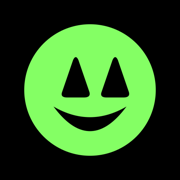
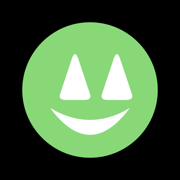
add

diff --git a/browser/index.html b/browser/index.html
@@ -57,8 +57,8 @@
   }
   @media (prefers-reduced-motion: reduce) { .head .logo { animation:none; } }
   .head .mark { width:19px; height:19px; flex:0 0 auto; display:block; }
-  .head .mark .ring { fill:var(--green-bright); }   /* base = key colour */
-  .head .mark .face { fill:var(--bg); }             /* cut-outs = page bg */
+  .head .mark .ring { fill:#88d878; }   /* BMBoard smiley, recoloured (matches bmbrowserlogo) */
+  .head .mark .face { fill:#ffffff; }
   .head .th-btn, .head .wg-btn, .head .edit-btn {
     font-size:10px; letter-spacing:0.06em; color:var(--green-faint);
     cursor:pointer; border:1px solid var(--line); border-radius:2px; padding:2px 9px;
@@ -153,15 +153,15 @@
   .bk:hover .x.solo { display:inline; }
   .bm-empty { font-size:11px; color:var(--green-faint); letter-spacing:0.06em; padding:4px 2px; }
 
-  .bm.ascii { gap:16px; }
+  .bm.ascii { gap:20px; }
   @keyframes aa-in { from { opacity:0; transform:translateY(5px); } to { opacity:1; transform:none; } }
   .aa-card {
-    position:relative; display:flex; flex-direction:column; align-items:center; gap:7px;
-    padding:9px 12px; border:1px solid transparent; border-radius:3px;
+    position:relative; display:flex; flex-direction:column; align-items:center; gap:10px;
+    padding:13px 17px; border:1px solid transparent; border-radius:3px;
     cursor:pointer; text-decoration:none; animation:aa-in .42s ease both;
   }
   .aa-card:hover { border-color:var(--line); background:var(--bg-1); }
-  .aa { margin:0; font-family:var(--font-mono); font-size:10px; line-height:1; letter-spacing:0; color:var(--green-bright); white-space:pre; }
+  .aa { margin:0; font-family:var(--font-mono); font-size:15px; line-height:1; letter-spacing:0; color:var(--green-bright); white-space:pre; }
   .aa-card:hover .aa { text-shadow:0 0 6px rgba(51,255,51,0.4); }
   .aa-name { font-size:10px; color:var(--gray); letter-spacing:0.1em; }
   .aa-ctls { display:flex; gap:4px; }
@@ -219,14 +219,21 @@
   .nl-item .nl-pt { flex-shrink:0; color:var(--green-faint); font-size:11px; }
   .news-msg { background:var(--bg-1); border:1px solid var(--line); border-radius:3px; padding:10px 14px; color:var(--green-faint); font-size:11px; letter-spacing:0.06em; }
 
-  /* ── widget: clock (click to cycle: small → large → ascii) ── */
+  /* ── widget: clock (click to cycle: small → large → ascii — ascii = the big one) ── */
   .clock-w { cursor:pointer; }
   .clock-w.s-small { font-size:12px; color:var(--green-dim); letter-spacing:0.16em; }
   .clock-w.s-large { color:var(--green-bright); }
-  .clock-w.s-large .ct { display:block; font-size:34px; letter-spacing:0.06em; line-height:1.05; }
-  .clock-w.s-large .cd { display:block; font-size:11px; color:var(--green-faint); letter-spacing:0.18em; margin-top:3px; }
-  .clock-w.s-ascii .ca { display:block; font-family:var(--font-mono); white-space:pre; font-size:10px; line-height:1; color:var(--green-bright); }
-  .clock-w.s-ascii .cd { display:block; font-size:10px; color:var(--green-faint); letter-spacing:0.18em; margin-top:7px; }
+  .clock-w.s-large .ct { display:block; font-size:38px; letter-spacing:0.06em; line-height:1.05; }
+  .clock-w.s-large .cd { display:block; font-size:11px; color:var(--green-faint); letter-spacing:0.18em; margin-top:4px; }
+  .clock-w.s-ascii .ca { display:block; font-family:var(--font-mono); white-space:pre; font-size:16px; line-height:1; color:var(--green-bright); }
+  .clock-w.s-ascii .cd { display:block; font-size:11px; color:var(--green-faint); letter-spacing:0.2em; margin-top:10px; }
+
+  /* shared size toggle (小 · 中 · 大) used by weather + markets headers */
+  .wx-hd .sz-tg, .mk-hd .sz-tg { font-size:10px; letter-spacing:0; text-transform:none; }
+  .wx-hd [data-sz], .mk-hd [data-sz] { cursor:pointer; color:var(--green-faint); }
+  .wx-hd [data-sz]:hover, .mk-hd [data-sz]:hover { color:var(--green); }
+  .wx-hd [data-sz].active, .mk-hd [data-sz].active { color:var(--green-bright); }
+  .wx-hd .sz-tg .sep, .mk-hd .sz-tg .sep { color:var(--line); padding:0 4px; cursor:default; }
 
   /* ── widget: weather ── */
   .wx-hd { display:flex; align-items:center; gap:12px; margin:0 2px 7px; font-size:10px; letter-spacing:0.14em; text-transform:uppercase; color:var(--gray); }
@@ -241,6 +248,19 @@
   .wx-tx .wx-hl  { color:var(--green-dim); font-size:12px; }
   .wx-tx .wx-loc { color:var(--gray); font-size:11px; }
   .wx-msg { background:var(--bg-1); border:1px solid var(--line); border-radius:3px; padding:10px 16px; color:var(--green-faint); font-size:11px; letter-spacing:0.06em; }
+  /* weather sizes — sz-m = default */
+  .wx-body.sz-s { padding:8px 14px; }
+  .wx-body.sz-s .wx-row { gap:12px; }
+  .wx-body.sz-s .wx-art { font-size:8px; }
+  .wx-body.sz-s .wx-tx { font-size:11px; line-height:1.5; }
+  .wx-body.sz-s .wx-tx .wx-now { font-size:16px; }
+  .wx-body.sz-l { padding:20px 22px; }
+  .wx-body.sz-l .wx-row { gap:28px; }
+  .wx-body.sz-l .wx-art { font-size:20px; line-height:1.05; }
+  .wx-body.sz-l .wx-tx { font-size:15px; line-height:1.85; }
+  .wx-body.sz-l .wx-tx .wx-now { font-size:46px; }
+  .wx-body.sz-l .wx-tx .wx-lbl { font-size:18px; }
+  .wx-body.sz-l .wx-tx .wx-hl { font-size:14px; }
 
   /* ── widget: markets (crypto ticker + ASCII sparkline) ── */
   .mk-hd { display:flex; align-items:center; gap:12px; margin:0 2px 7px; font-size:10px; letter-spacing:0.14em; text-transform:uppercase; color:var(--gray); }
@@ -255,6 +275,11 @@
   .mk-row .mk-ch.down { color:var(--red); }
   .mk-row .mk-spark { flex:1; min-width:0; overflow:hidden; font-family:var(--font-mono); font-size:13px; letter-spacing:0; white-space:nowrap; color:var(--green-dim); }
   .mk-msg { background:var(--bg-1); border:1px solid var(--line); border-radius:3px; padding:10px 14px; color:var(--green-faint); font-size:11px; letter-spacing:0.06em; }
+  /* markets sizes — sz-m = default */
+  .mk-body.sz-s .mk-row { padding:5px 12px; font-size:11px; gap:10px; }
+  .mk-body.sz-s .mk-row .mk-sym { width:36px; } .mk-body.sz-s .mk-row .mk-px { width:96px; } .mk-body.sz-s .mk-row .mk-ch { width:54px; font-size:11px; } .mk-body.sz-s .mk-row .mk-spark { font-size:11px; }
+  .mk-body.sz-l .mk-row { padding:12px 18px; font-size:17px; gap:14px; }
+  .mk-body.sz-l .mk-row .mk-sym { width:52px; } .mk-body.sz-l .mk-row .mk-px { width:150px; font-size:17px; } .mk-body.sz-l .mk-row .mk-ch { width:80px; font-size:14px; } .mk-body.sz-l .mk-row .mk-spark { font-size:18px; }
 
   /* ── help overlay + footer (outside the stack) ── */
   .help { display:none; margin-top:18px; background:var(--bg-1); border:1px solid var(--line); border-radius:3px; padding:14px 16px; font-size:11px; line-height:1.95; }
@@ -364,7 +389,11 @@
       <div class="widget" data-wid="weather">
         <div class="w-bar"><span class="w-handle" title="drag to reorder">⠿</span><span class="w-title">weather</span><button class="w-hide" title="hide widget">✕</button></div>
         <div class="w-body">
-          <div class="wx-hd"><span>weather · 滋賀</span><span class="wx-r" id="wx-refresh" title="refresh">↻</span></div>
+          <div class="wx-hd">
+            <span>weather · 滋賀</span>
+            <span class="sz-tg" id="wx-size"><span data-sz="s">小</span><span class="sep">·</span><span data-sz="m">中</span><span class="sep">·</span><span data-sz="l">大</span></span>
+            <span class="wx-r" id="wx-refresh" title="refresh">↻</span>
+          </div>
           <div id="wx-body"></div>
         </div>
       </div>
@@ -372,7 +401,11 @@
       <div class="widget" data-wid="markets">
         <div class="w-bar"><span class="w-handle" title="drag to reorder">⠿</span><span class="w-title">markets</span><button class="w-hide" title="hide widget">✕</button></div>
         <div class="w-body">
-          <div class="mk-hd"><span>markets · crypto (JPY)</span><span class="mk-r" id="mk-refresh" title="refresh">↻</span></div>
+          <div class="mk-hd">
+            <span>markets · crypto (JPY)</span>
+            <span class="sz-tg" id="mk-size"><span data-sz="s">小</span><span class="sep">·</span><span data-sz="m">中</span><span class="sep">·</span><span data-sz="l">大</span></span>
+            <span class="mk-r" id="mk-refresh" title="refresh">↻</span>
+          </div>
           <div id="mk-body"></div>
         </div>
       </div>
@@ -403,7 +436,7 @@
     </div>
 
     <div class="foot">
-      <a href="https://99letters.github.io/">99letters / kinoshita studio</a>
+      <a href="https://tkinoshita99.github.io/">99letters / kinoshita studio</a>
     </div>
   </div>
 

diff --git a/browser/newtab.js b/browser/newtab.js
@@ -446,12 +446,17 @@ function wxCat(code) {
   if ((code >= 51 && code <= 67) || (code >= 80 && code <= 86)) return 'rain';
   return 'cloudy';
 }
+const WX_SIZE_KEY = 'bm-browser.weatherSize.v1';
+let weatherSize = ['s', 'm', 'l'].includes(localStorage.getItem(WX_SIZE_KEY)) ? localStorage.getItem(WX_SIZE_KEY) : 'm';
+function setWeatherSize(s) { if (!['s', 'm', 'l'].includes(s)) return; weatherSize = s; try { localStorage.setItem(WX_SIZE_KEY, s); } catch (_) {} renderWeather(); }
 let wxData = null;
 function loadWxCache() { const c = lsGet(WX_KEY); if (c && c.data) { wxData = c.data; return c.fetchedAt || 0; } return 0; }
 function saveWxCache() { lsSet(WX_KEY, { data: wxData, fetchedAt: Date.now() }); }
 function renderWeather(msg) {
   const body = document.getElementById('wx-body'); if (!body) return;
-  if (msg || !wxData) { body.innerHTML = `<div class="wx-msg">${esc(msg || 'no data yet — ↻')}</div>`; return; }
+  document.querySelectorAll('#wx-size [data-sz]').forEach((s) => s.classList.toggle('active', s.dataset.sz === weatherSize));
+  if (msg || !wxData) { body.className = ''; body.innerHTML = `<div class="wx-msg">${esc(msg || 'no data yet — ↻')}</div>`; return; }
+  body.className = 'wx-body sz-' + weatherSize;
   const cat = wxCat(wxData.code);
   const r = (n) => Math.round(Number(n));
   body.innerHTML =
@@ -479,6 +484,7 @@ async function fetchWeather() {
   renderWeather();
   if (Date.now() - at > 30 * 60 * 1000) fetchWeather();
   document.getElementById('wx-refresh')?.addEventListener('click', fetchWeather);
+  document.querySelectorAll('#wx-size [data-sz]').forEach((s) => s.addEventListener('click', () => setWeatherSize(s.dataset.sz)));
   setInterval(fetchWeather, 30 * 60 * 1000);
 }
 
@@ -502,9 +508,14 @@ function sparkline(arr, width) {
   return out.map((v) => SPARK_CHARS[Math.min(7, Math.max(0, Math.round((v - lo) / range * 7)))]).join('');
 }
 function fmtJPY(n) { return '¥' + Math.round(Number(n) || 0).toLocaleString('ja-JP'); }
+const MK_SIZE_KEY = 'bm-browser.marketsSize.v1';
+let marketsSize = ['s', 'm', 'l'].includes(localStorage.getItem(MK_SIZE_KEY)) ? localStorage.getItem(MK_SIZE_KEY) : 'm';
+function setMarketsSize(s) { if (!['s', 'm', 'l'].includes(s)) return; marketsSize = s; try { localStorage.setItem(MK_SIZE_KEY, s); } catch (_) {} renderMarkets(); }
 function renderMarkets(msg) {
   const body = document.getElementById('mk-body'); if (!body) return;
-  if (msg || !mkItems.length) { body.innerHTML = `<div class="mk-msg">${esc(msg || 'no data yet — ↻')}</div>`; return; }
+  document.querySelectorAll('#mk-size [data-sz]').forEach((s) => s.classList.toggle('active', s.dataset.sz === marketsSize));
+  if (msg || !mkItems.length) { body.className = ''; body.innerHTML = `<div class="mk-msg">${esc(msg || 'no data yet — ↻')}</div>`; return; }
+  body.className = 'mk-body sz-' + marketsSize;
   body.innerHTML = mkItems.map((it) => {
     const ch = (typeof it.ch === 'number') ? it.ch : 0;
     const chStr = (ch >= 0 ? '▲' : '▼') + Math.abs(ch).toFixed(1) + '%';
@@ -535,6 +546,7 @@ async function fetchMarkets() {
   renderMarkets();
   if (Date.now() - at > 10 * 60 * 1000) fetchMarkets();
   document.getElementById('mk-refresh')?.addEventListener('click', fetchMarkets);
+  document.querySelectorAll('#mk-size [data-sz]').forEach((s) => s.addEventListener('click', () => setMarketsSize(s.dataset.sz)));
   setInterval(fetchMarkets, 12 * 60 * 1000);
 }
 
